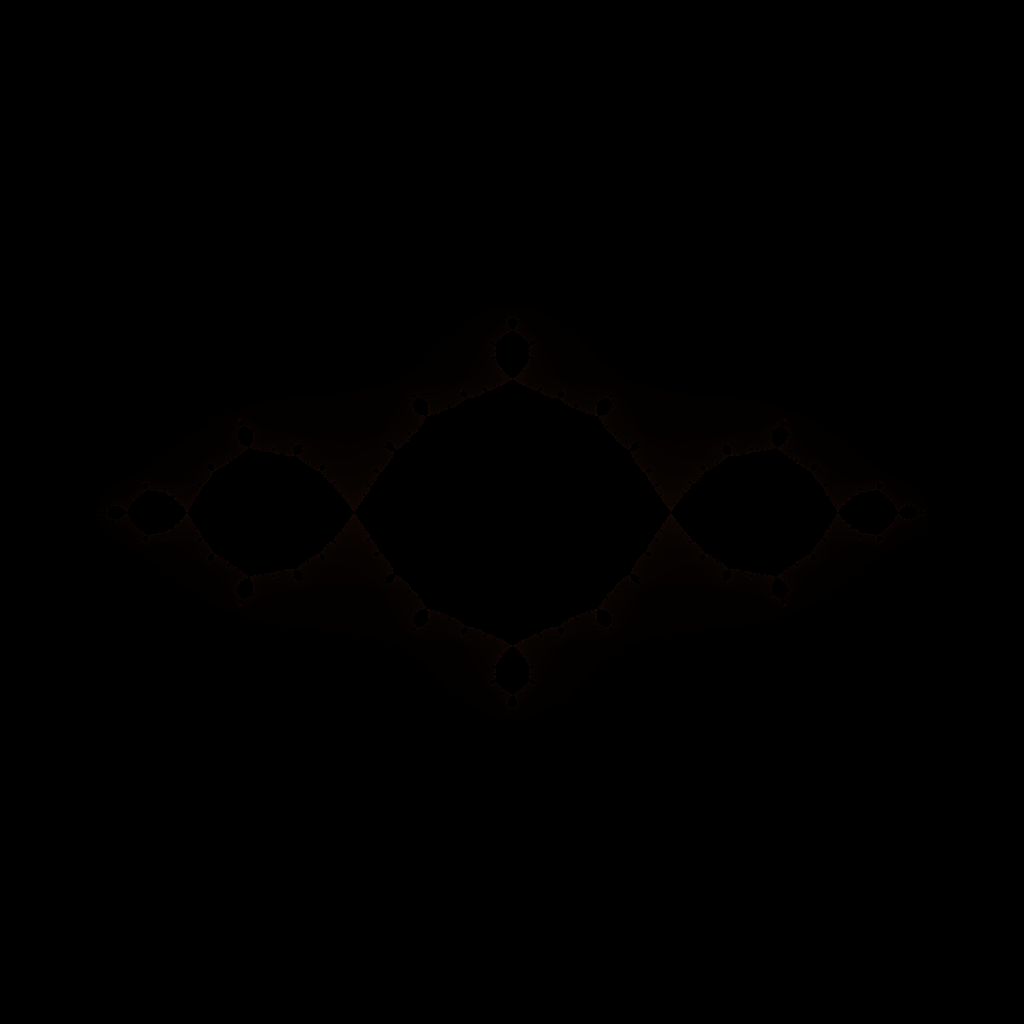
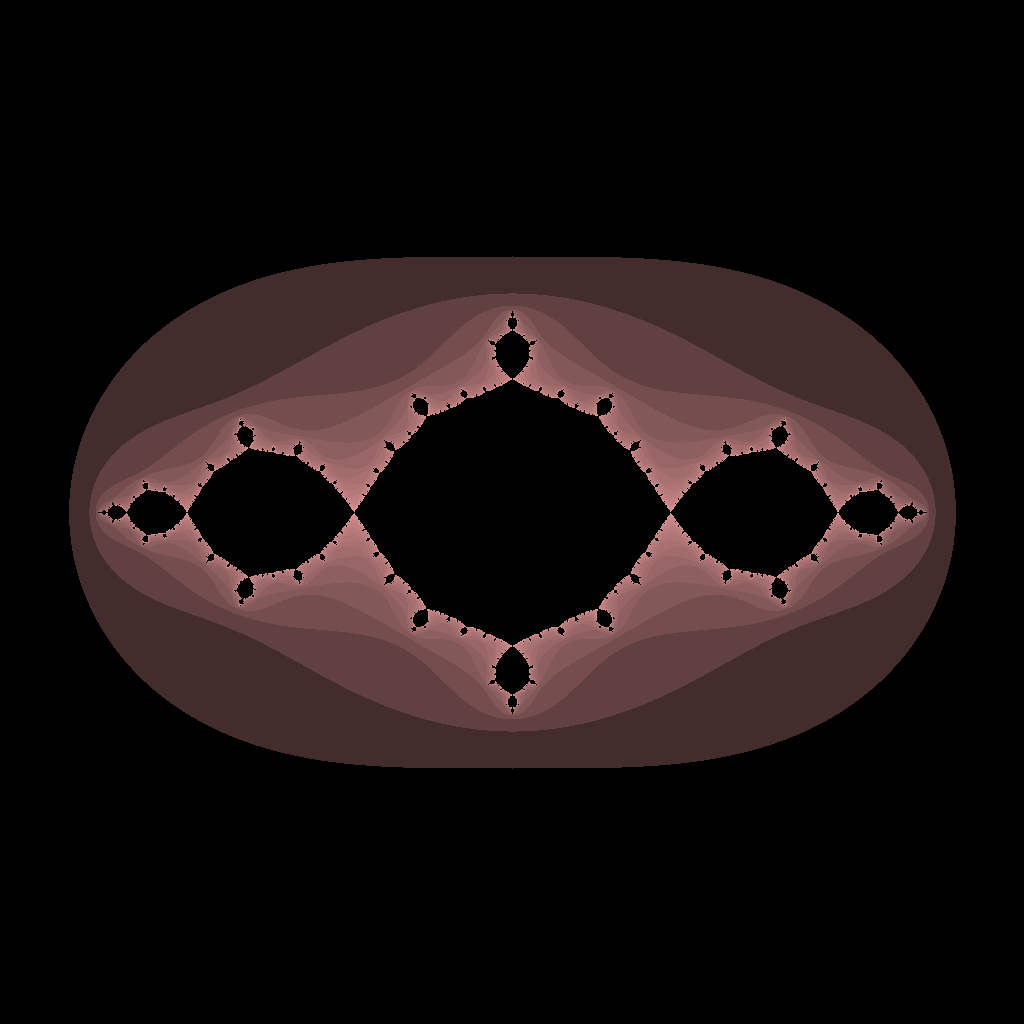
arreglada clase generaFractal

Changed region(s): [[0.0625, 0.25, 0.9375, 0.75]]

diff --git a/Proyecto 1/src/generadorFractal.py b/Proyecto 1/src/generadorFractal.py
@@ -1,5 +1,6 @@
 import numpy as np
 from PIL import Image
+import colorsys
 
 class GeneradorFractal:
     def __init__(self, ancho, alto, polinomio, min_complejo, max_complejo, iteraciones, umbral, color_base):
@@ -14,11 +15,34 @@ class GeneradorFractal:
 
     def generar(self):
         imagen = np.zeros((self.alto, self.ancho, 3), dtype=np.uint8)
+        
+        # Pre-calcular el logaritmo para mejor distribución de colores
+        log_iter = np.log(self.iteraciones)
+        
         for x in range(self.ancho):
             for y in range(self.alto):
                 z = self._pixel_a_complejo(x, y)
-                color = self._obtener_color(z)
-                imagen[y, x] = color
+                escape_time = self._calcular_tiempo_escape(z)
+                
+                if escape_time < self.iteraciones:
+                    # Mejor mapeo de color con ajuste de brillo
+                    normalized = escape_time / self.iteraciones
+                    log_scale = np.log(escape_time + 1) / log_iter
+                    
+                    # Ajuste de saturación y brillo
+                    h = (self.color_base[0]/255, self.color_base[1]/255, self.color_base[2]/255)
+                    r, g, b = colorsys.hsv_to_rgb(h[0], h[1], min(1.0, log_scale * 1.5))
+                    
+                    # Aplicar gamma correction
+                    gamma = 0.8
+                    r = int(255 * (r ** gamma))
+                    g = int(255 * (g ** gamma))
+                    b = int(255 * (b ** gamma))
+                    
+                    imagen[y, x] = (r, g, b)
+                else:
+                    imagen[y, x] = (0, 0, 0)  # Negro para puntos que convergen
+        
         return imagen
 
     def _pixel_a_complejo(self, x, y):
@@ -26,10 +50,9 @@ class GeneradorFractal:
         imag = self.min_complejo.imag + (y / self.alto) * (self.max_complejo.imag - self.min_complejo.imag)
         return complex(real, imag)
 
-    def _obtener_color(self, z):
+    def _calcular_tiempo_escape(self, z):
         for i in range(self.iteraciones):
             z = self.polinomio.evaluar(z)
             if abs(z) > self.umbral:
-                factor = i / self.iteraciones
-                return tuple(int(c * factor) for c in self.color_base)
-        return (0, 0, 0)  # Negro si converge
+                return i
+        return self.iteraciones
